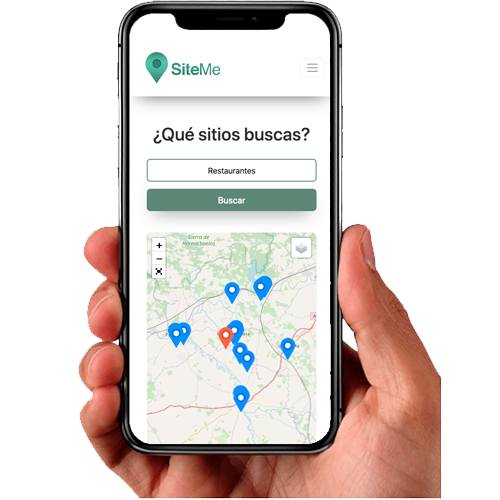
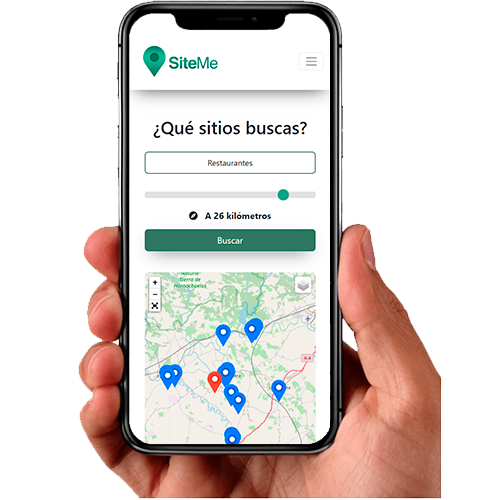
Ajustes visuales (nuevas capturas y estilos)

diff --git a/public/js/utiles.js b/public/js/utiles.js
@@ -11,7 +11,7 @@ var estado_ubicacion = false;
 function obtenerCoordenadas(seccion) {
     if (navigator.geolocation)
         navigator.geolocation.getCurrentPosition(
-            function (pos) {
+            function(pos) {
                 lat = pos.coords.latitude;
                 lng = pos.coords.longitude;
                 estado_ubicacion = true;
@@ -21,6 +21,7 @@ function obtenerCoordenadas(seccion) {
                         document.getElementById("estado").innerHTML = "Ubicación activada";
                         document.getElementById("boton-buscar").disabled = false;
                         document.getElementById("input-busqueda").disabled = false;
+                        document.getElementById("radio").disabled = false;
                         document.getElementById("cargando").style.display = "block";
                         document.getElementById("map").style.display = "block";
                         break;
@@ -34,7 +35,7 @@ function obtenerCoordenadas(seccion) {
 
                 generarMapa(seccion);
             },
-            function (objPositionError) {
+            function(objPositionError) {
                 // Cacheo de errores relacionados con la ubicación
                 switch (objPositionError.code) {
                     case objPositionError.PERMISSION_DENIED:
@@ -73,9 +74,9 @@ function obtenerCoordenadas(seccion) {
                         MicroModal.show("modal");
                 }
             }, {
-            maximumAge: 75000,
-            timeout: 15000,
-        }
+                maximumAge: 75000,
+                timeout: 15000,
+            }
         );
 }
 
@@ -149,7 +150,7 @@ function generarMapa(seccion) {
 }
 
 function medirDistancia(lat1, lon1, lat2, lon2) {
-    rad = function (x) {
+    rad = function(x) {
         return (x * Math.PI) / 180;
     };
     var R = 6378.137; //Radio de la tierra en km
@@ -187,7 +188,7 @@ function comprobarUsuario(email) {
             headers: {
                 "Content-Type": "application/json",
             },
-        }).then(function (response) {
+        }).then(function(response) {
             if (response.status === 200) {
                 error.classList.add("alert");
                 error.classList.add("alert-success");
@@ -208,7 +209,7 @@ function mostrarModal(nombreModal) {
 }
 
 function cerrarModal(nombreModal) {
-    setTimeout(function () {
+    setTimeout(function() {
         MicroModal.close(nombreModal);
     }, 500);
 }

diff --git a/public/css/style.css b/public/css/style.css
@@ -54,7 +54,8 @@ nav li a:hover {
     .navbar-brand {
         float: right;
     }
-    .navbar-brand, .navbar-nav .nav-item {
+    .navbar-brand,
+    .navbar-nav .nav-item {
         display: block;
     }
     .navbar-nav .nav-item+.nav-item {
@@ -85,9 +86,11 @@ nav li a:hover {
     box-shadow: 0px 15px 39px -16px rgba(0, 0, 0, 0.75);
 }
 
-.dropdown-item.active, .dropdown-item:active {
+.dropdown-item.active,
+.dropdown-item:active {
     background-color: #4d7662 !important;
 }
+
 
 /* Para navegadores que soporten el efecto blur */
 
@@ -143,7 +146,8 @@ button {
     width: 300px;
 }
 
-.input-busqueda:disabled, .input-busqueda[disabled] {
+.input-busqueda:disabled,
+.input-busqueda[disabled] {
     cursor: default;
     background-color: #cccccc;
     color: #666666;
@@ -154,7 +158,8 @@ button {
     width: 300px;
 }
 
-.pDistancia{
+.pDistancia {
+    color: black;
     font-size: 20px;
     font-weight: bold;
 }
@@ -209,6 +214,7 @@ button {
     }
 }
 
+
 /* Estilos para la scrollbar */
 
 ::-webkit-scrollbar {
@@ -252,6 +258,7 @@ button {
 ::-webkit-scrollbar-corner {
     background: transparent;
 }
+
 
 /* ESTILOS DE INICIO */
 
@@ -303,7 +310,8 @@ button {
     transition: 0.5s;
 }
 
-.boton:disabled, .boton[disabled] {
+.boton:disabled,
+.boton[disabled] {
     cursor: default;
     background-color: #cccccc;
     color: #666666;
@@ -356,6 +364,7 @@ button {
         margin-top: 7rem;
     }
 }
+
 
 /* ESTILOS DEL LOGIN */
 
@@ -431,6 +440,7 @@ button {
     -moz-box-shadow: 0px 15px 39px -16px rgba(0, 0, 0, 0.75);
     box-shadow: 0px 15px 39px -16px rgba(0, 0, 0, 0.75);
 }
+
 
 /* ESTILOS DE BUSQUEDA */
 
@@ -594,6 +604,7 @@ button {
     font-weight: bold !important;
 }
 
+
 /* ESTILOS DE AJUSTES */
 
 .btn-web {
@@ -642,6 +653,7 @@ button {
         color: rgb(148, 148, 148);
     }
 }
+
 
 /* ESTILOS PARA LOS MENSAJES DE ERROR */
 
